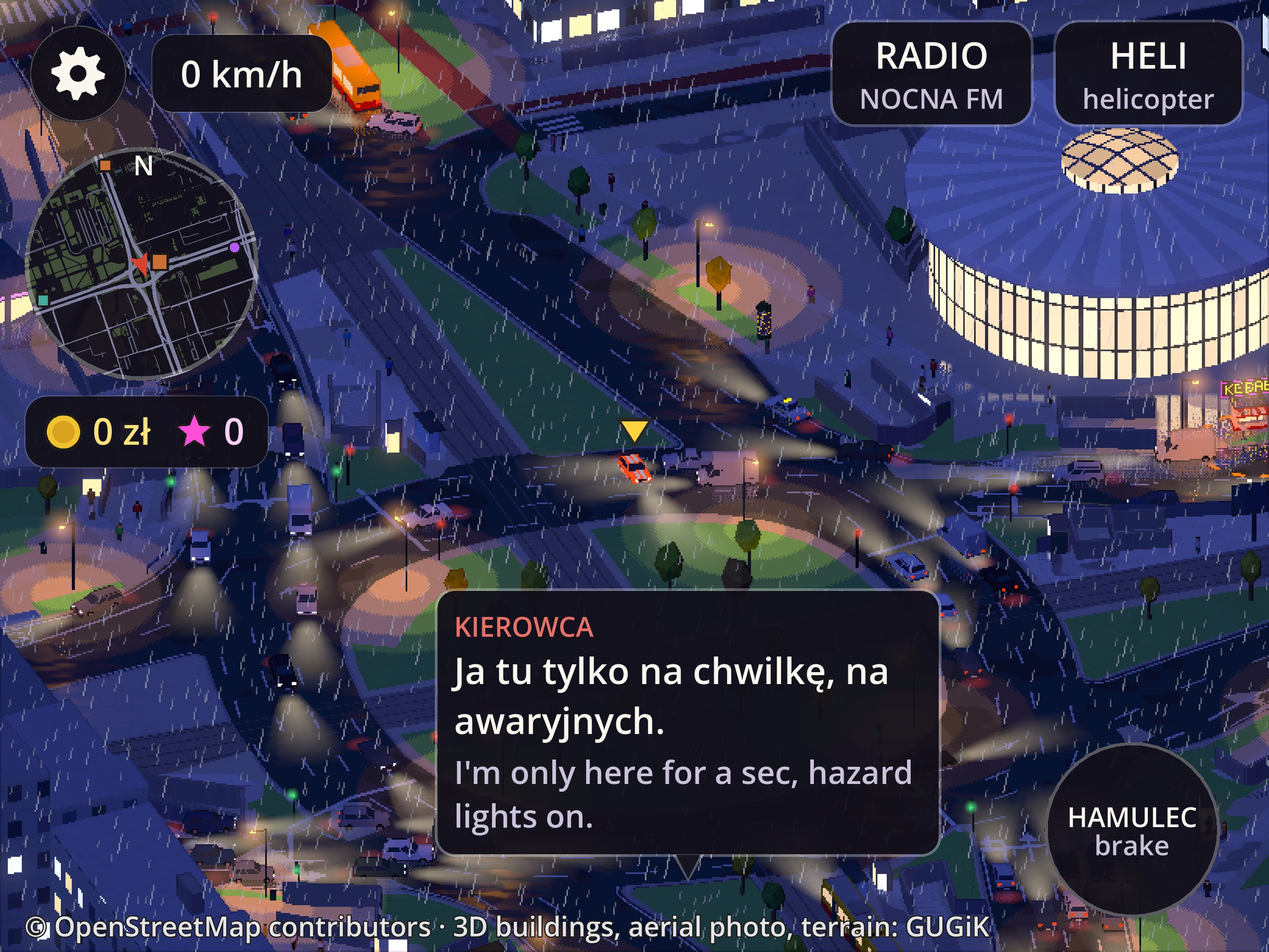
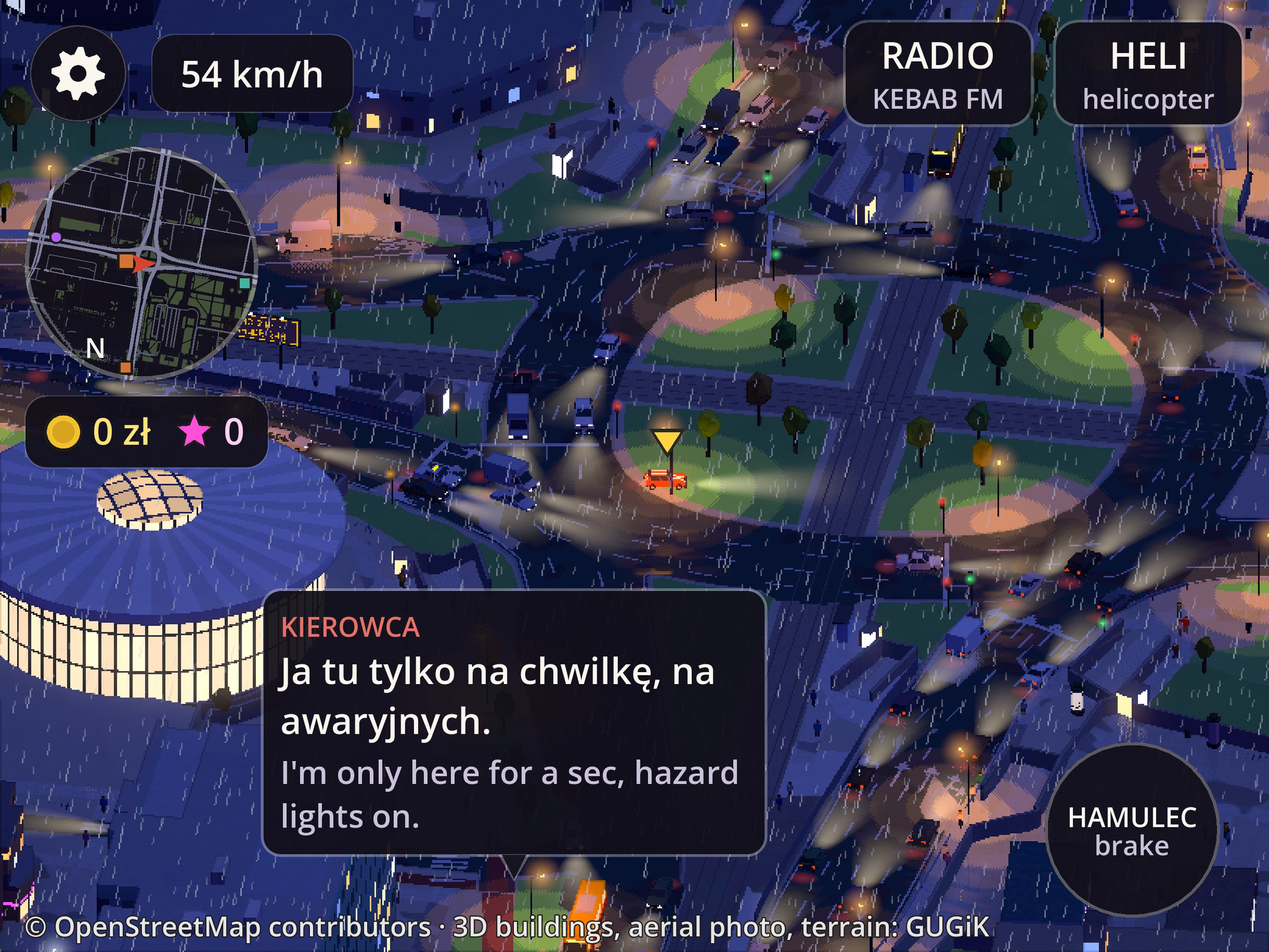
Store: re-render the screenshots with Kebab FM

diff --git a/docs/store/screenshots/README.md b/docs/store/screenshots/README.md
@@ -1,7 +1,8 @@
 # Store screenshots
 
 Seven in-game screenshots with the HUD on, for the App Store and Google Play beta listings.
-Rendered from the runtime city on 2026-10-30, saved as JPEG (quality 90, sRGB, no alpha).
+Rendered on 2026-10-30 with the radio station named KEBAB FM, saved as JPEG (quality 90,
+sRGB, no alpha).
 
 | Folder | Size | For |
 | --- | --- | --- |
@@ -15,25 +16,31 @@ Every shot is one run of the game from `game/`, with each screen size passed as 
 `--resolution` so the HUD lays out for that screen:
 
 ```zsh
-godot --path . --resolution WxH --fixed-fps 60 --quit-after <F+660> \
-  -- --nosave --free --notitle --traffic=busy --shots=F --out=DIR <flags below>
+godot --path . --resolution WxH --fixed-fps 60 --quit-after <last frame + 660> \
+  -- --nosave --free --notitle --traffic=busy --shots=F1,F2,F3 --out=DIR <flags below>
 ```
 
-The iPad set was rendered at 2440 × 1830 (4:3; a taller window doesn't fit this Mac's
-screen) and scaled up to 2752 × 2064 (Lanczos). Night runs sometimes quit without saving
-the shot, so a run was retried until it saved (see BACKLOG).
+Each run saved three frames, and the cleanest one was kept (the car moving where it could,
+speech bubbles fully typed). The iPad set was rendered at 2440 × 1830 (4:3; a taller window
+doesn't fit the Mac's screen) and scaled up to 2752 × 2064 (Lanczos).
 
-| # | File | Frame `F` | Flags | What it shows |
+**Which city:** shots 01–06 come from `main` (commit 5137c54, the runtime city). Shot 07
+comes from the bigger demo map (loop 3d-1's 18.6 km² box, not yet on `main`): on `main`'s
+map Varso Tower stands about 140 m from the west edge, so any framing that fits its crown
+shows the edge of the map. That copy of the game had only the KEBAB FM name applied.
+
+| # | File | Frame kept (iPhone / iPad / Play) | Flags | What it shows |
 | --- | --- | --- | --- | --- |
-| 01 | `01-palace-dusk.jpg` | 600 (Play: 690) | `--at=-1410,159 --yaw=90 --size=150 --time=dusk` (iPad: `--size=200`, frame 690) | Driving past the floodlit Palace of Culture at dusk, a driver shouting in a speech bubble |
-| 02 | `02-rotunda-rain-night.jpg` | 420 | `--at=-837,427 --yaw=0 --size=85 --time=night --weather=rain` | Rondo Dmowskiego in the rain at night: the glowing Rotunda and the KEBAB 24H neon |
-| 03 | `03-heli-vistula.jpg` | 600 | `--heli --at=1000,-180 --yaw=20 --size=70 --time=day` | The helicopter over the Vistula by Most Poniatowskiego, with its altitude and up/down controls |
-| 04 | `04-kebab-job.jpg` | 900 | `--kebab=3 --autopilot --time=night --size=90` | A night kebab delivery under way: the order card with its heat bar, distance and the orange beacon |
-| 05 | `05-police-talk.jpg` (iPhone, Play) | 720 | `--pullover=routine --pullover-frame=600 --time=day --size=60` | A routine police pull-over by day, the sergeant's line in Polish and English |
-| 05 | `05-ride-day.jpg` (iPad) | 600 | `--ride=1 --autopilot --time=day --size=80` | A Podwózka ride by day: the passenger gets in and the ride card shows the rating and the distance |
-| 06 | `06-narodowy-night.jpg` | 600 | `--at=1249,-568 --yaw=300 --size=260 --time=night` | Stadion Narodowy lit red and white at night, a taxi driver's quip from the road below |
-| 07 | `07-varso-dusk.jpg` | 600 | `--at=-1501,649 --yaw=270 --size=160 --time=dusk` | Varso Tower and the towers by Aleje Jerozolimskie glowing red at sunset |
+| 01 | `01-palace-dusk.jpg` | 480 / 480 / 480 | `--at=-1384,250 --heading=0 --demo --yaw=90 --size=180 --time=dusk` | Driving up Marszałkowska at 43 km/h past the floodlit Palace of Culture at dusk |
+| 02 | `02-rotunda-rain-night.jpg` | 300 / 300 / 300 | `--at=-837,427 --heading=90 --demo --yaw=0 --size=85 --time=night --weather=rain` | Rondo Dmowskiego in the rain at night: the glowing Rotunda, the KEBAB 24H sign, a driver's quip |
+| 03 | `03-heli-vistula.jpg` | 600 / 600 / 600 | `--heli --at=1000,-180 --yaw=20 --size=70 --time=day` | The helicopter hovering over the Vistula by Most Poniatowskiego, with its altitude and up/down controls |
+| 04 | `04-kebab-job.jpg` | 840 / 840 / 840 | `--kebab=3 --autopilot --time=night --size=90` | A night kebab delivery under way: the order card with its heat bar, distance and the orange beacon |
+| 05 | `05-police-talk.jpg` (iPhone, Play) | 720 / – / 720 | `--pullover=routine --pullover-frame=600 --time=day --size=60` | A routine police pull-over by day, the sergeant's line in Polish and English |
+| 05 | `05-ride-day.jpg` (iPad) | – / 600 / – | `--ride=1 --autopilot --time=day --size=80` | A Podwózka ride under way at 30 km/h: the ride card with the rating, the distance and the teal beacon |
+| 06 | `06-narodowy-night.jpg` | 300 / 330 / 300 | `--at=1249,-568 --heading=0 --demo --yaw=300 --size=260 --time=night` | Driving along Wybrzeże Szczecińskie past Stadion Narodowy, lit red and white at night |
+| 07 | `07-varso-dusk.jpg` | 360 / 360 / 360 | `--at=-1501,649 --yaw=270 --size=380 --time=dusk` (bigger map) | Varso Tower, crown in frame, with Złote Tarasy and Aleje Jerozolimskie at sunset |
 
 The iPad's fifth shot is the Podwózka ride, because the police pull-over's dialogue panel
-doesn't appear at a 4:3 screen (see BACKLOG). The traffic speech bubbles are random,
-so each screen size shows a different line.
+doesn't appear at a 4:3 screen (see BACKLOG). The car stands still in 03 (the helicopter
+hovers), 05-police-talk (pulled over) and 07 (every moving take of Varso lost the crown or
+the framing). Traffic speech bubbles are random, so each size shows a different line.
